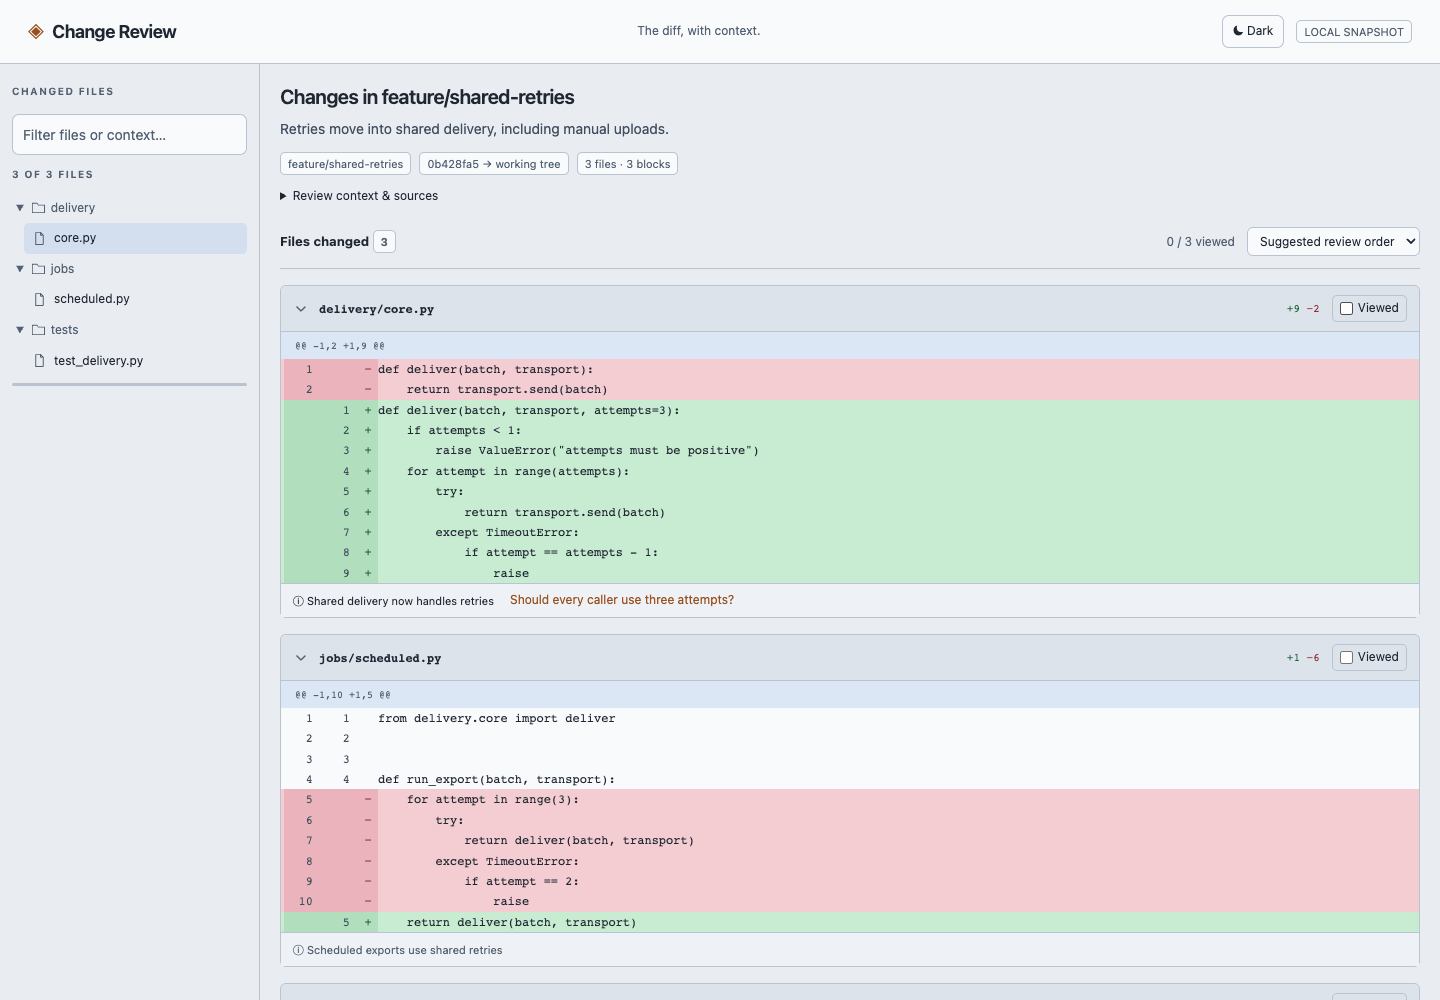
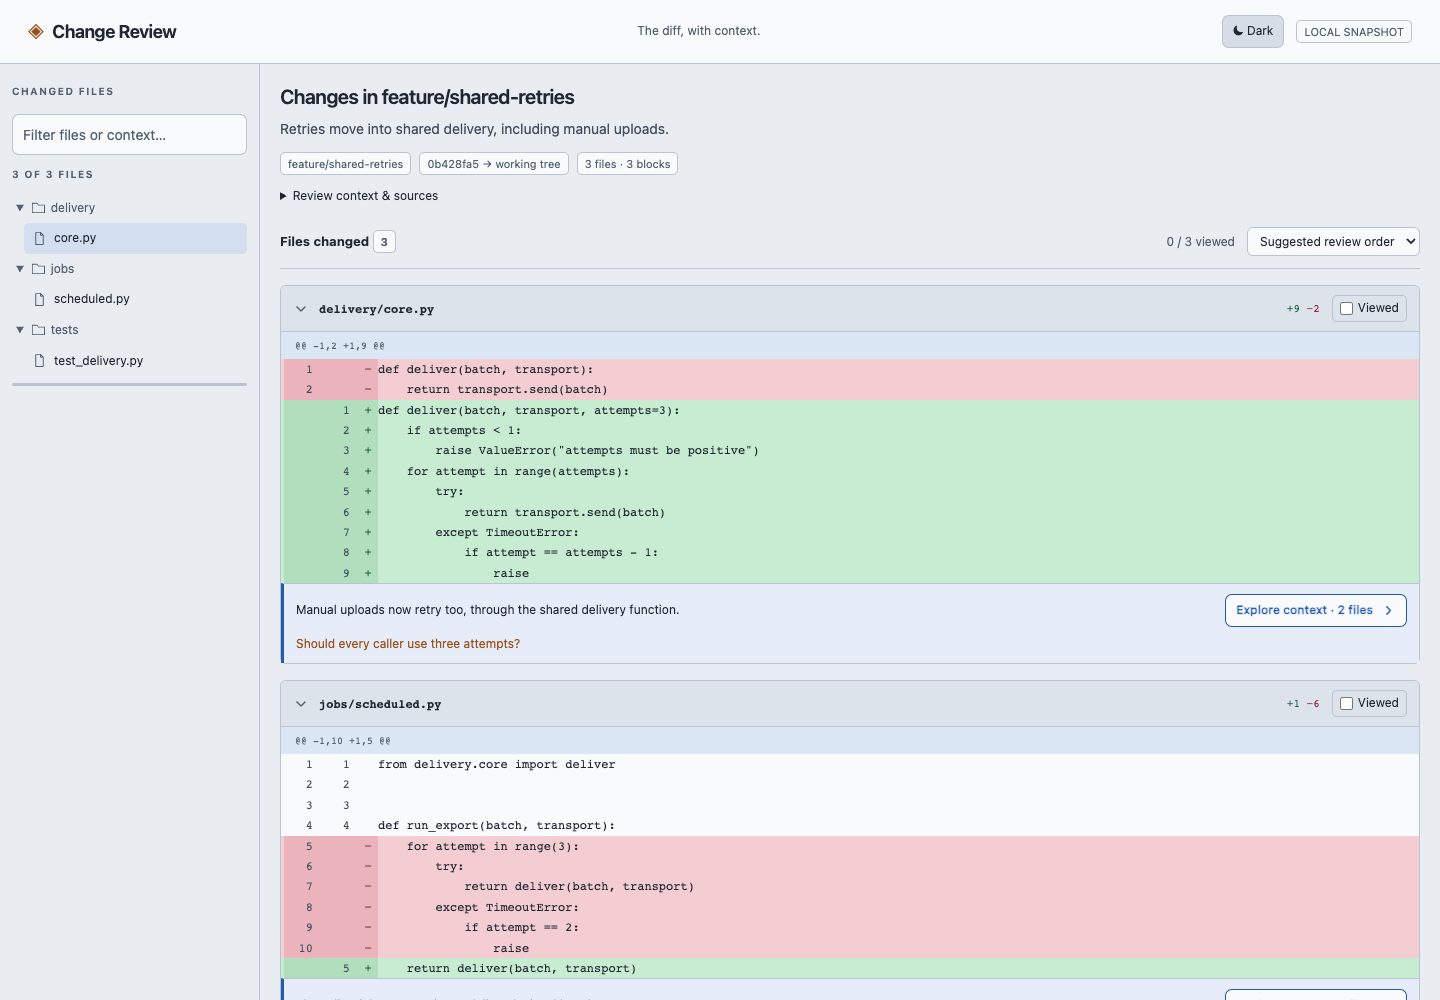
Make review context visible and easy to explore

Changed region(s): [[0.1875, 0.589, 1.0, 1.0], [0.8438, 0.589, 0.9688, 0.62], [0.8438, 0.0, 0.9062, 0.062]]

diff --git a/viewer.html b/viewer.html
@@ -19,6 +19,7 @@
         color-scheme: dark;
         --link: #8cb8ff;
         --range: #222c3b;
+        --context-tint: #1b2533;
         --paper: #141416;
         --surface: #1c1c20;
         --panel: #18181b;
@@ -45,6 +46,7 @@
         color-scheme: light;
         --link: #245baf;
         --range: #dce7f5;
+        --context-tint: #e6edf8;
         --paper: #e9edf2;
         --surface: #f8fafc;
         --panel: #eef1f5;
@@ -528,24 +530,51 @@
         white-space: pre;
       }
       .annotation-bar {
-        display: flex;
+        display: grid;
+        grid-template-columns: minmax(0, 1fr) auto;
         align-items: center;
-        flex-wrap: wrap;
-        gap: 5px 16px;
-        padding: 6px 12px;
+        gap: 8px 16px;
+        padding: 10px 12px;
         border-top: 1px solid var(--line);
-        background: var(--panel);
+        border-left: 3px solid var(--link);
+        background: var(--context-tint);
         font-size: 12px;
       }
-      .annotation-bar .context-button {
-        background: none;
-        padding: 2px 0;
-        color: var(--muted);
-      }
-      .important .annotation-bar .context-button {
+      .context-takeaway {
+        margin: 0;
         color: var(--ink);
+        overflow-wrap: anywhere;
+      }
+      .annotation-bar .hint {
+        grid-column: 2;
+        justify-self: end;
+      }
+      .annotation-bar .context-button {
+        display: flex;
+        align-items: center;
+        gap: 8px;
+        background: var(--surface);
+        border: 1px solid var(--link);
+        padding: 6px 10px;
+        color: var(--link);
+        font-size: 12px;
+        font-weight: 550;
+      }
+      .annotation-bar .context-button:hover {
+        background: var(--hover);
+      }
+      .context-button .chevron {
+        color: inherit;
+      }
+      .context-button[aria-expanded="true"] .chevron {
+        transform: rotate(90deg);
+      }
+      .annotation-bar .peek {
+        left: auto;
+        right: 0;
       }
       .check {
+        grid-column: 1 / -1;
         margin: 0;
         color: var(--accent);
         font-size: 12px;
@@ -733,6 +762,17 @@
         }
       }
       @media (max-width: 600px) {
+        .annotation-bar {
+          grid-template-columns: minmax(0, 1fr);
+        }
+        .annotation-bar .hint {
+          grid-column: 1;
+          justify-self: start;
+        }
+        .annotation-bar .peek {
+          left: 0;
+          right: auto;
+        }
         .snapshot-badge {
           display: none;
         }
@@ -1062,6 +1102,11 @@
           .map((line, i) => String(e.start + i).padStart(4) + "  " + line)
           .join("\n");
       }
+      function takeaway(a) {
+        if (!a || a.importance === "mechanical") return "";
+        if (a.what.length <= 160 && a.what.trim()) return a.what;
+        return a.title.length <= 80 ? a.title : "";
+      }
       function context(h, a) {
         const root = el("div", undefined, "inline-context");
         root.id = "context-" + h.id;
@@ -1102,7 +1147,7 @@
           if (focus) preview.focus({ preventScroll: true });
         }
         if (a) {
-          if (a.what) body.append(el("p", a.what));
+          if (a.what && a.what !== takeaway(a)) body.append(el("p", a.what));
           const related = a.related_hunks
             .filter((id) => id !== h.id)
             .map((id) => hunkMap.get(id));
@@ -1220,29 +1265,63 @@
         card.append(code);
         const details = context({ ...h, file }, a);
         const bar = el("div", undefined, "annotation-bar");
+        const brief = takeaway(a);
+        if (brief) bar.append(el("p", brief, "context-takeaway"));
+        const relatedPaths = new Set(
+          [
+            ...(a?.related_hunks || []).map((id) => hunkMap.get(id).file.path),
+            ...S.evidence
+              .filter((e) => a?.evidence_ids.includes(e.id))
+              .map((e) => e.path),
+          ].filter((path) => path !== file.path),
+        );
+        const relatedCount = relatedPaths.size;
         const hint = el("div", undefined, "hint");
         const pin = button(
-          "ⓘ " + (a?.title || "Source context"),
+          "",
           () => {
             details.hidden = !details.hidden;
             if (details.hidden) expanded.delete(h.id);
             else expanded.add(h.id);
-            pin.setAttribute("aria-expanded", String(!details.hidden));
+            updateContextButton();
             hint.classList.add("dismissed");
           },
           "context-button",
         );
         pin.id = "peek-button-" + h.id;
-        pin.setAttribute(
-          "aria-label",
-          "Explore: " + (a?.title || h.symbol || file.path),
-        );
         pin.setAttribute("aria-controls", details.id);
-        pin.setAttribute("aria-expanded", String(!details.hidden));
+        function updateContextButton() {
+          const action = details.hidden
+            ? a
+              ? "Explore context"
+              : "View source"
+            : "Hide context";
+          const count = relatedCount
+            ? ` · ${relatedCount} ${relatedCount === 1 ? "file" : "files"}`
+            : "";
+          pin.replaceChildren(
+            document.createTextNode(action + count),
+            icon("chevron"),
+          );
+          pin.setAttribute(
+            "aria-label",
+            `${action + count}: ${a?.title || h.symbol || file.path}`,
+          );
+          pin.setAttribute("aria-expanded", String(!details.hidden));
+        }
+        updateContextButton();
         const peek = el("div", undefined, "peek");
         peek.id = "peek-" + h.id;
         peek.setAttribute("role", "tooltip");
-        peek.append(el("p", a?.what || "Open captured source excerpts."));
+        peek.append(
+          el(
+            "p",
+            a?.where ||
+              (brief
+                ? "Open rationale, related code, and supporting evidence."
+                : a?.what || "Open captured source excerpts."),
+          ),
+        );
         pin.setAttribute("aria-describedby", peek.id);
         hint.append(pin, peek);
         hint.addEventListener("keydown", (event) => {

diff --git a/README.md b/README.md
@@ -14,7 +14,7 @@
 
 <p align="center">
   A Git diff with the context you need to make it yours.<br>
-  Hover for the explanation. Follow the evidence. Keep your place.
+  See the consequence. Follow the evidence. Keep your place.
 </p>
 
 <p align="center">
@@ -46,14 +46,15 @@ Screenshots: [Dark](docs/assets/screenshot.png) · [Light](docs/assets/screensho
 | While you read                 | What you get                                                                                                                                                                   |
 | ------------------------------ | ------------------------------------------------------------------------------------------------------------------------------------------------------------------------------ |
 | **Find the important parts**   | Scroll through every file in suggested review order: focus changes first, supporting changes next, mechanical changes last. Switch to file path order anytime.                 |
-| **Hover, then go deeper**      | A small context cue beneath the relevant code. Hover for the consequence; click for rationale and a local map of related code.                                                 |
+| **See context, then explore**  | A short consequence beneath the code, with a prominent **Explore context** button showing the related-file count. Open it for rationale, a local map, and evidence.            |
 | **Understand the reason**      | Rationale stays inside expandable context, labeled **stated intent**, **inferred**, or **unknown**.                                                                            |
 | **Check the evidence**         | Open captured source excerpts with file paths, line numbers, and before/after labels.                                                                                          |
 | **Follow the whole change**    | A directory tree follows your scroll. The context map links suggested related edits and cited sources, including unchanged files. Source excerpts open alongside the context.  |
 | **Pick up where you left off** | Mark a file **Viewed** to collapse all its changes. Expand it without clearing its marker. Progress is saved for that exact snapshot; older block-level progress is preserved. |
 
 New annotations have character budgets: a short overall summary, one takeaway per
-block, and a brief hover explanation. Specific review questions remain visible.
+block, and a brief explanation. Mechanical changes skip the upfront sentence.
+Specific review questions remain visible.
 Long summaries from older annotations remain available under **Review context & sources**.
 Suggested order reflects model annotations, not a verified risk score; unannotated
 blocks stay visible, and hunks within each file keep their source order.
